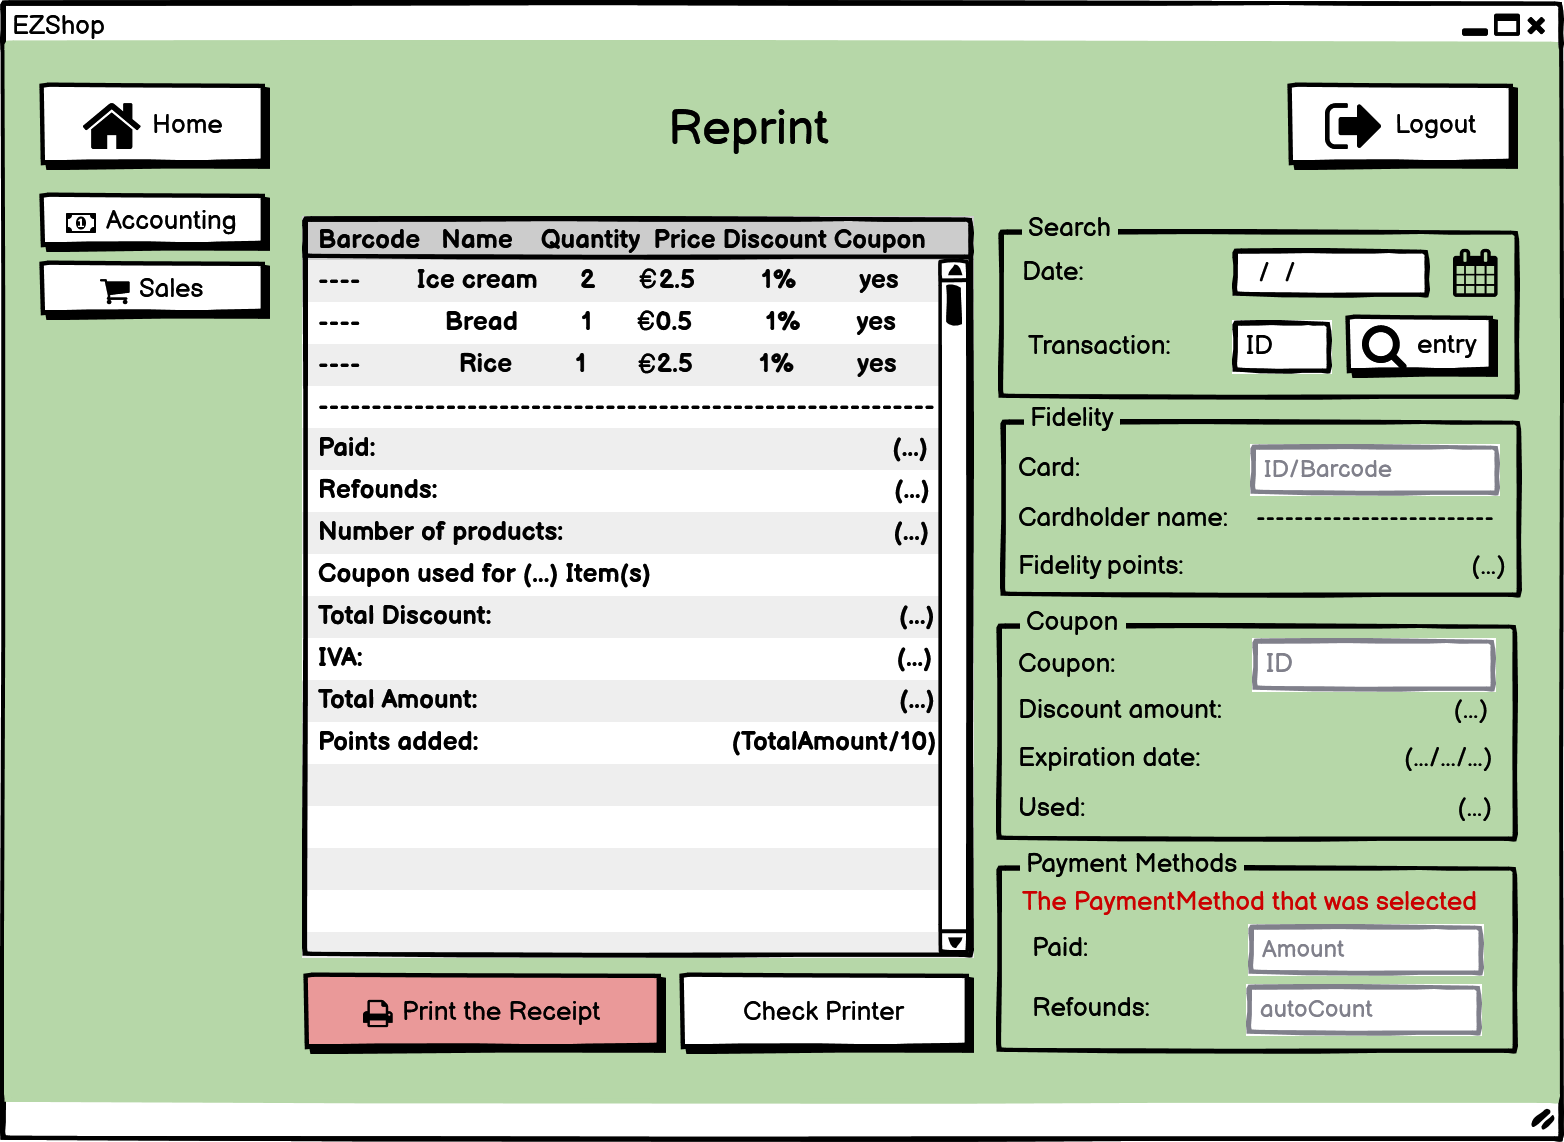
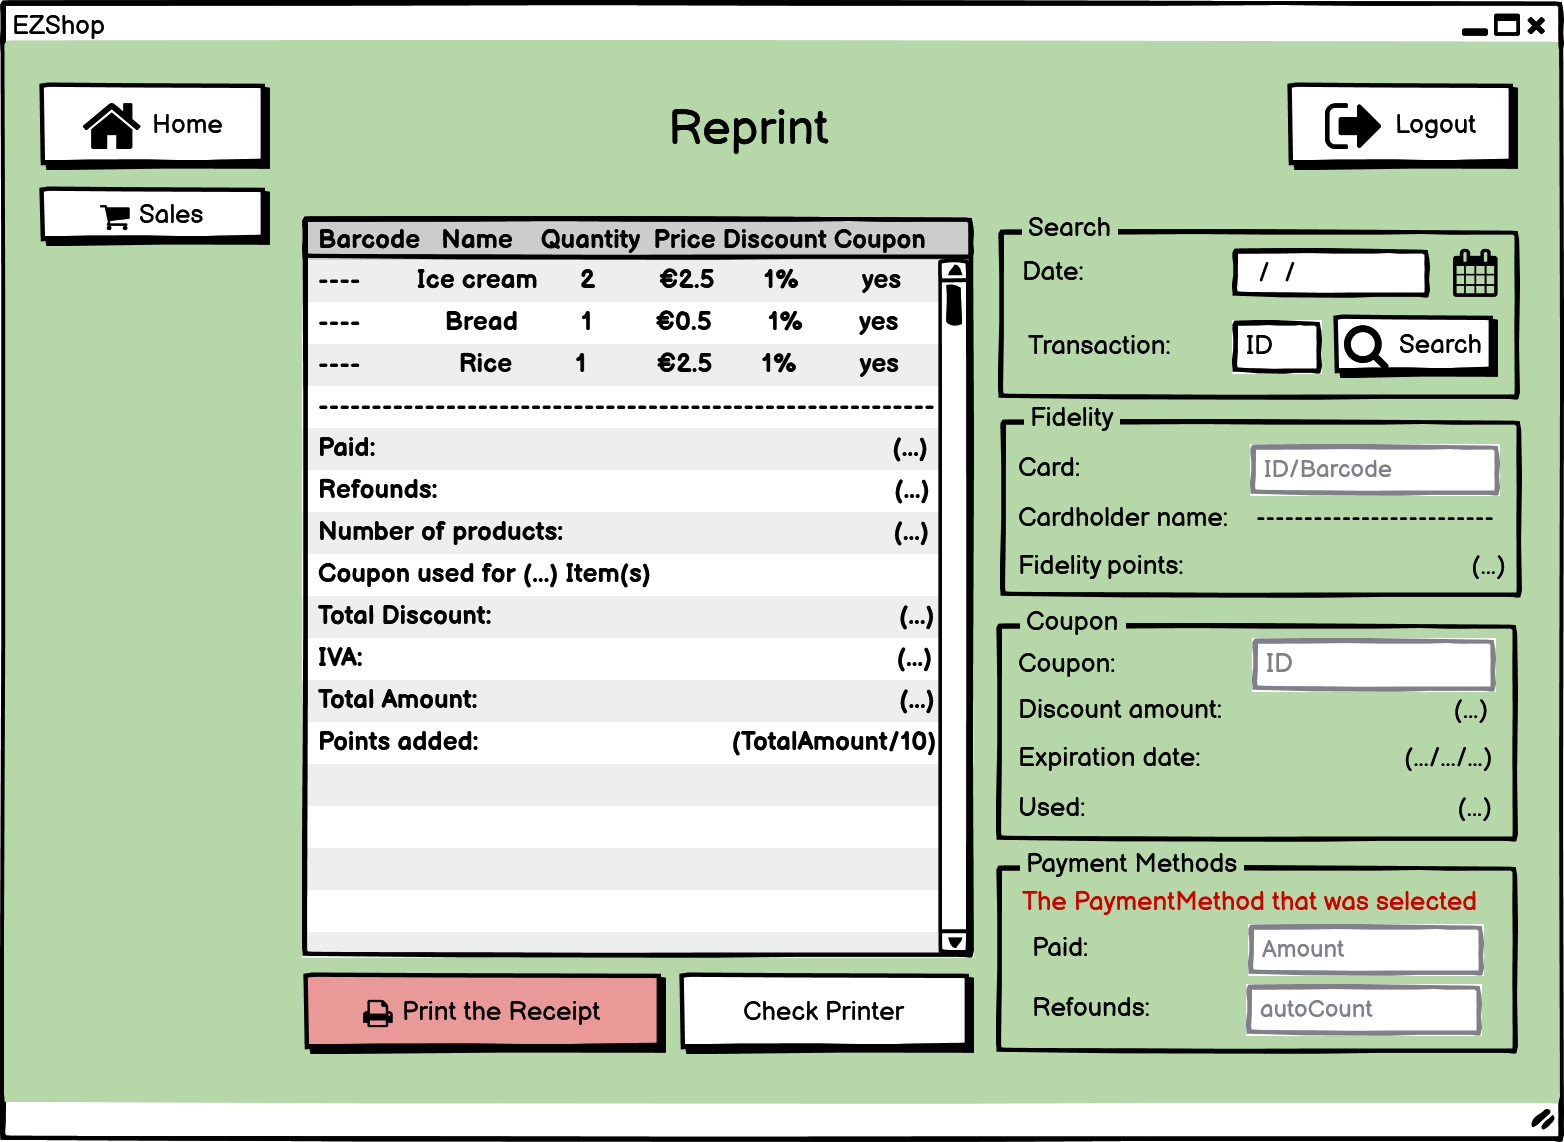
GUI1 Update

diff --git a/Deliverables/GUIPrototype.md b/Deliverables/GUIPrototype.md
@@ -51,10 +51,9 @@ This page is the homepage of the Owner. It is similar to the Subscriber Homepage
 
 This page is described selling steps that **Owner** or **Employee** can use this form, Subscriber/Customer can buy products with or without coupon/discount. there are some additional buttons:
 
-1. The owner/employee can click on the **Home** button that linked to the homepage. (Page 0.3 (Page or 0.4)
-2. When the owner/employee clicks on the **Accounting** button, they can get reports about Transactions, Expenses, Pay salaries and Daily balance. (Page 14.1)
-3. The owner/employee can click on the **Reprint** button to print the previous receipt by searching. (Page 1.2)
-4. The owner/employee can click on the **Logout** button will used to logging out. (Page 0.1)
+1. The Owner/Employee can click on the **Home** button that linked to the homepage. (Page 0.3/0.4)
+2. The Owner/Employee can click on the **Reprint** button to print the previous receipt by searching. (Page 1.2)
+3. The Owner/Employee can click on the **Logout** button will used to logging out. (Page 0.1)
 
 The **List of Products** with information about the receipt (Paid, Refounds, Number of products, Coupon used for (...) Item(s), Total Discount, IVA, Total Amount, Fidelity Points, Points Added) also user can controls item(s) in the List by **Delete / Increase / Decrease** buttons.
 
@@ -78,10 +77,10 @@ At the end and after inserting / scanning Barcode(s), if the Subscriber / Custom
 
 This page is described print again the previous receipt that **Owner** or **Employee** can use this form, No information can be edited. there are some additional buttons:
 
-1. The owner/employee can click on the **Home** button that linked to the homepage. (Page 0.3 (Page or 0.4)
-2. When the owner/employee clicks on the **Accounting** button, they can get reports about Transactions, Expenses, Pay salaries and Daily balance. (Page 14.1)
-3. The owner/employee can click on the **Sales** button to back to the selling produts (Page 1.1)
-4. The owner/employee can click on the **Logout** button will used to logging out. (Page 0.1)
+
+1. The Owner/Employee can click on the **Home** button that linked to the homepage. (Page 0.3/0.4)
+2. The Owner/Employee can click on the **Sales** button to back to the Selling products page. (Page 1.1)
+3. The Owner/Employee can click on the **Logout** button will used to logging out. (Page 0.1)
 
 The **List of Products** with information about the receipt (Paid, Refounds, Number of products, Coupon used for (...) Item(s), Total Discount, IVA, Total Amount, Fidelity Points, Points Added) that they never can edited.
 
